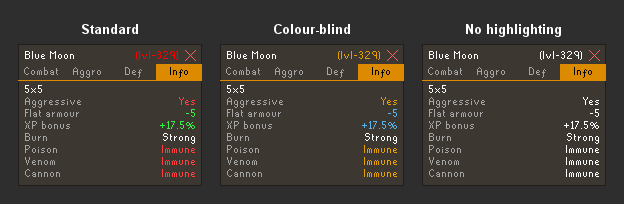
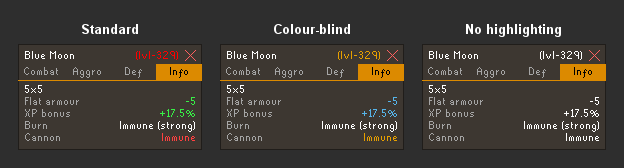
Add a dedicated Slayer box to the panel and overlay
Surface the full Bucket Slayer data instead of collapsing it to a
"Slayer monster: Yes" line. A dedicated box (panel) / block (overlay Info
tab) renders only for Slayer targets, showing required level, XP per kill,
assignment categories and the masters who assign it — all via the shared
MonsterStats view-model so both renderers stay in sync.

The required Slayer level is flagged red when the player's Slayer level is
below it (you cannot damage the monster yet); to support that, cache the
player's Slayer level each GameTick alongside combat/HP and thread it into
the view-model.

Closes #36.

Changed region(s): [[0.0304, 0.119, 0.9744, 0.8929], [0.4263, 0.119, 0.5785, 0.2083], [0.1218, 0.119, 0.2436, 0.2083]]

diff --git a/src/test/java/com/bettermonsterexamine/MonsterStatsTest.java b/src/test/java/com/bettermonsterexamine/MonsterStatsTest.java
@@ -24,7 +24,7 @@ public class MonsterStatsTest
 
 	private static MonsterStats stats(MonsterData m)
 	{
-		return new MonsterStats(m, HighlightMode.STANDARD, 99);
+		return new MonsterStats(m, HighlightMode.STANDARD, 99, 99);
 	}
 
 	@Test
@@ -55,7 +55,7 @@ public class MonsterStatsTest
 	{
 		MonsterData m = monster("{\"max_hit\":[\"999\"]}");
 
-		MonsterStats s = new MonsterStats(m, HighlightMode.OFF, 99);
+		MonsterStats s = new MonsterStats(m, HighlightMode.OFF, 99, 99);
 
 		assertFalse(s.maxHits().get(0).overHp());
 	}
@@ -112,6 +112,59 @@ public class MonsterStatsTest
 		assertEquals(ColourRole.DANGER, s.cannon().role());
 		assertNull(s.thrall());
 		assertEquals("Immune (weak)", s.burn());
+	}
+
+	@Test
+	public void slayerMonsterOnlyWhenCategoryPresent()
+	{
+		assertTrue(stats(monster("{\"slayer_category\":[\"Abyssal demons\"]}")).slayerMonster());
+		assertFalse(stats(monster("{\"slayer_level\":85}")).slayerMonster());
+		assertFalse(stats(monster("{}")).slayerMonster());
+	}
+
+	@Test
+	public void slayerRequirementFlagsDangerOnlyWhenPlayerBelow()
+	{
+		MonsterData m = monster("{\"slayer_category\":[\"Abyssal demons\"],\"slayer_level\":85}");
+
+		// Player at 84 can't damage it yet → danger; at 85 or with unknown level → neutral.
+		assertEquals("85", new MonsterStats(m, HighlightMode.STANDARD, 99, 84).slayerRequirement().value());
+		assertEquals(ColourRole.DANGER, new MonsterStats(m, HighlightMode.STANDARD, 99, 84).slayerRequirement().role());
+		assertEquals(ColourRole.NEUTRAL, new MonsterStats(m, HighlightMode.STANDARD, 99, 85).slayerRequirement().role());
+		assertEquals(ColourRole.NEUTRAL, new MonsterStats(m, HighlightMode.STANDARD, 99, -1).slayerRequirement().role());
+	}
+
+	@Test
+	public void slayerRequirementFloorsAtOneAndStaysNeutral()
+	{
+		// No listed requirement: the wiki shows level 1, which every player meets.
+		MonsterStats.StatField req = new MonsterStats(monster("{\"slayer_category\":[\"Zombies\"]}"),
+			HighlightMode.STANDARD, 99, 1).slayerRequirement();
+
+		assertEquals("1", req.value());
+		assertEquals(ColourRole.NEUTRAL, req.role());
+		assertNull(req.tooltip());
+	}
+
+	@Test
+	public void slayerXpFormatsAndOmitsZero()
+	{
+		assertEquals("150", stats(monster("{\"slayer_experience\":150.0}")).slayerXp());
+		assertEquals("18.5", stats(monster("{\"slayer_experience\":18.5}")).slayerXp());
+		assertNull(stats(monster("{\"slayer_experience\":0}")).slayerXp());
+		assertNull(stats(monster("{}")).slayerXp());
+	}
+
+	@Test
+	public void slayerCategoriesAndMastersJoinAndCapitalise()
+	{
+		MonsterData m = monster("{\"slayer_category\":[\"Blue dragons\",\"Bosses\"],"
+			+ "\"assigned_by\":[\"duradel\",\"nieve\"]}");
+
+		assertEquals("Blue dragons, Bosses", stats(m).slayerCategories());
+		assertEquals("Duradel, Nieve", stats(m).slayerMasters());
+		assertNull(stats(monster("{}")).slayerCategories());
+		assertNull(stats(monster("{}")).slayerMasters());
 	}
 
 	@Test

diff --git a/src/main/java/com/bettermonsterexamine/MonsterStats.java b/src/main/java/com/bettermonsterexamine/MonsterStats.java
@@ -75,12 +75,14 @@ final class MonsterStats
 	private final MonsterData m;
 	private final HighlightMode mode;
 	private final int playerHpLevel;
+	private final int playerSlayerLevel;
 
-	MonsterStats(MonsterData m, HighlightMode mode, int playerHpLevel)
+	MonsterStats(MonsterData m, HighlightMode mode, int playerHpLevel, int playerSlayerLevel)
 	{
 		this.m = m;
 		this.mode = mode;
 		this.playerHpLevel = playerHpLevel;
+		this.playerSlayerLevel = playerSlayerLevel;
 	}
 
 	// ---- Attributes / Info ---------------------------------------------------
@@ -96,6 +98,49 @@ final class MonsterStats
 	boolean slayerMonster()
 	{
 		return m.isSlayerMonster();
+	}
+
+	/**
+	 * Required Slayer level to damage the monster (the wiki shows {@code 1} when there is no real
+	 * requirement). Flagged {@link ColourRole#DANGER} when the player's Slayer level is known and
+	 * below it — you can't harm it yet. Only meaningful on a Slayer monster.
+	 */
+	StatField slayerRequirement()
+	{
+		int req = Math.max(1, m.getSlayerLevel());
+		boolean tooLow = playerSlayerLevel > 0 && playerSlayerLevel < req;
+		return new StatField(String.valueOf(req), tooLow ? ColourRole.DANGER : ColourRole.NEUTRAL,
+			req > 1 ? "Requires Slayer level " + req + " to damage." : null);
+	}
+
+	/** Slayer XP awarded per kill, without a trailing {@code .0}; null when absent. */
+	String slayerXp()
+	{
+		double xp = m.getSlayerExperience();
+		return xp > 0 ? StatFormat.number(xp) : null;
+	}
+
+	/** The Slayer assignment categories joined (e.g. {@code "Blue dragons, Bosses"}); null when none. */
+	String slayerCategories()
+	{
+		List<String> c = m.getSlayerCategory();
+		return c == null || c.isEmpty() ? null : String.join(", ", c);
+	}
+
+	/** The Slayer masters who assign it, capitalised and joined (e.g. {@code "Duradel, Nieve"}); null when none. */
+	String slayerMasters()
+	{
+		List<String> a = m.getAssignedBy();
+		if (a == null || a.isEmpty())
+		{
+			return null;
+		}
+		List<String> capped = new ArrayList<>(a.size());
+		for (String master : a)
+		{
+			capped.add(StatFormat.cap(master));
+		}
+		return String.join(", ", capped);
 	}
 
 	/** Flat-armour adjustment; null when zero. Negative (takes extra damage) is good, positive bad. */

diff --git a/src/main/java/com/bettermonsterexamine/MonsterCard.java b/src/main/java/com/bettermonsterexamine/MonsterCard.java
@@ -44,18 +44,20 @@ class MonsterCard extends JPanel
 	private final BetterMonsterExamineConfig config;
 	private final IntSupplier playerCombatLevel;
 	private final IntSupplier playerHpLevel;
+	private final IntSupplier playerSlayerLevel;
 	private final Predicate<MonsterData> isFavorite;
 	private final Consumer<MonsterData> onToggleFavorite;
 	private final Consumer<MonsterData> onSelectVariant;
 
 	MonsterCard(MonsterIcons icons, BetterMonsterExamineConfig config, IntSupplier playerCombatLevel,
-		IntSupplier playerHpLevel, Predicate<MonsterData> isFavorite, Consumer<MonsterData> onToggleFavorite,
-		Consumer<MonsterData> onSelectVariant)
+		IntSupplier playerHpLevel, IntSupplier playerSlayerLevel, Predicate<MonsterData> isFavorite,
+		Consumer<MonsterData> onToggleFavorite, Consumer<MonsterData> onSelectVariant)
 	{
 		this.icons = icons;
 		this.config = config;
 		this.playerCombatLevel = playerCombatLevel;
 		this.playerHpLevel = playerHpLevel;
+		this.playerSlayerLevel = playerSlayerLevel;
 		this.isFavorite = isFavorite;
 		this.onToggleFavorite = onToggleFavorite;
 		this.onSelectVariant = onSelectVariant;
@@ -67,7 +69,7 @@ class MonsterCard extends JPanel
 	void show(MonsterData m, List<MonsterData> variants)
 	{
 		removeAll();
-		MonsterStats stats = new MonsterStats(m, config.statHighlighting(), playerHpLevel.getAsInt());
+		MonsterStats stats = new MonsterStats(m, config.statHighlighting(), playerHpLevel.getAsInt(), playerSlayerLevel.getAsInt());
 		add(header(m, variants, stats));
 		add(Box.createRigidArea(new Dimension(0, 6)));
 		buildWiki(stats);
@@ -227,11 +229,6 @@ class MonsterCard extends JPanel
 			props.add(wrappedLabel(sizeAttr, Color.WHITE, false));
 			anyProp = true;
 		}
-		if (stats.slayerMonster())
-		{
-			props.add(kv("Slayer monster", "Yes", Color.WHITE));
-			anyProp = true;
-		}
 		MonsterStats.StatField flatArmour = stats.flatArmour();
 		if (flatArmour != null)
 		{
@@ -254,6 +251,34 @@ class MonsterCard extends JPanel
 		{
 			capHeight(props);
 			add(props);
+			add(Box.createRigidArea(new Dimension(0, 6)));
+		}
+
+		// SLAYER — only for Slayer targets: required level (red when above your Slayer level),
+		// XP per kill, assignment categories and the masters who assign it.
+		if (stats.slayerMonster())
+		{
+			JPanel slayer = block();
+			slayer.add(sectionHeader("Slayer"));
+			MonsterStats.StatField req = stats.slayerRequirement();
+			slayer.add(kv("Slayer level", req.value(), resolve(req.role()), req.tooltip()));
+			String slayerXp = stats.slayerXp();
+			if (slayerXp != null)
+			{
+				slayer.add(kv("Slayer XP", slayerXp, Color.WHITE));
+			}
+			String categories = stats.slayerCategories();
+			if (categories != null)
+			{
+				slayer.add(kvWrappedRight("Category", categories));
+			}
+			String masters = stats.slayerMasters();
+			if (masters != null)
+			{
+				slayer.add(kvWrappedRight("Assigned by", masters));
+			}
+			capHeight(slayer);
+			add(slayer);
 			add(Box.createRigidArea(new Dimension(0, 6)));
 		}
 

diff --git a/src/main/java/com/bettermonsterexamine/MonsterCardOverlay.java b/src/main/java/com/bettermonsterexamine/MonsterCardOverlay.java
@@ -41,6 +41,7 @@ class MonsterCardOverlay extends Overlay
 	private final MonsterIcons icons;
 	private final IntSupplier playerCombatLevel;
 	private final IntSupplier playerHpLevel;
+	private final IntSupplier playerSlayerLevel;
 
 	// monster is swapped in from the client thread and read on the render thread; activeTab is
 	// written from the mouse (AWT) thread. Volatile is enough — each is an independent
@@ -52,12 +53,13 @@ class MonsterCardOverlay extends Overlay
 	private volatile Rectangle[] tabBounds;
 	private volatile Rectangle closeBounds;
 
-	MonsterCardOverlay(BetterMonsterExamineConfig config, MonsterIcons icons, IntSupplier playerCombatLevel, IntSupplier playerHpLevel)
+	MonsterCardOverlay(BetterMonsterExamineConfig config, MonsterIcons icons, IntSupplier playerCombatLevel, IntSupplier playerHpLevel, IntSupplier playerSlayerLevel)
 	{
 		this.config = config;
 		this.icons = icons;
 		this.playerCombatLevel = playerCombatLevel;
 		this.playerHpLevel = playerHpLevel;
+		this.playerSlayerLevel = playerSlayerLevel;
 		setPosition(OverlayPosition.TOP_LEFT);
 		setLayer(OverlayLayer.ABOVE_WIDGETS);
 	}
@@ -227,7 +229,7 @@ class MonsterCardOverlay extends Overlay
 	private List<Row> rowsFor(int tab, MonsterData m)
 	{
 		HighlightMode mode = config.statHighlighting();
-		MonsterStats stats = new MonsterStats(m, mode, playerHpLevel.getAsInt());
+		MonsterStats stats = new MonsterStats(m, mode, playerHpLevel.getAsInt(), playerSlayerLevel.getAsInt());
 		List<Row> rows = new ArrayList<>();
 
 		switch (tab)
@@ -354,7 +356,23 @@ class MonsterCardOverlay extends Overlay
 		}
 		if (stats.slayerMonster())
 		{
-			rows.add(Row.kv("Slayer", "Yes", white));
+			MonsterStats.StatField req = stats.slayerRequirement();
+			rows.add(Row.kv("Slayer level", req.value(), StatColors.resolve(req.role(), mode)));
+			String slayerXp = stats.slayerXp();
+			if (slayerXp != null)
+			{
+				rows.add(Row.kv("Slayer XP", slayerXp, white));
+			}
+			String categories = stats.slayerCategories();
+			if (categories != null)
+			{
+				rows.add(Row.kvWrap("Category", categories, white));
+			}
+			String masters = stats.slayerMasters();
+			if (masters != null)
+			{
+				rows.add(Row.kvWrap("Assigned by", masters, white));
+			}
 		}
 		// Flat armour: a flat damage adjustment, 0 for most monsters — shown only when non-zero,
 		// green when negative (takes extra damage), red when positive (shrugs damage off).

diff --git a/src/main/java/com/bettermonsterexamine/BetterMonsterExaminePlugin.java b/src/main/java/com/bettermonsterexamine/BetterMonsterExaminePlugin.java
@@ -85,6 +85,7 @@ public class BetterMonsterExaminePlugin extends Plugin
 	// Cached on the client thread (GameTick) so the panel can read them safely off-thread (EDT).
 	private volatile int playerCombatLevel = -1;
 	private volatile int playerHpLevel = -1;
+	private volatile int playerSlayerLevel = -1;
 	private static final String STATS_OPTION = "Stats";
 
 	@Provides
@@ -98,7 +99,7 @@ public class BetterMonsterExaminePlugin extends Plugin
 	{
 		log.info("Better Monster Examine started");
 		titleIcon = ImageUtil.loadImageResource(getClass(), "/icon.png");
-		cardOverlay = new MonsterCardOverlay(config, monsterIcons, () -> playerCombatLevel, () -> playerHpLevel);
+		cardOverlay = new MonsterCardOverlay(config, monsterIcons, () -> playerCombatLevel, () -> playerHpLevel, () -> playerSlayerLevel);
 		overlayManager.add(cardOverlay);
 
 		// Route left-clicks on the overlay's tab strip to the overlay, consuming them so they
@@ -157,7 +158,7 @@ public class BetterMonsterExaminePlugin extends Plugin
 	{
 		log.debug("Adding side panel navigation button");
 		BufferedImage icon = titleIcon;
-		monsterStatsPanel = new BetterMonsterExaminePanel(monsterIcons, dataService, config, configManager, gson, () -> playerCombatLevel, () -> playerHpLevel, icon);
+		monsterStatsPanel = new BetterMonsterExaminePanel(monsterIcons, dataService, config, configManager, gson, () -> playerCombatLevel, () -> playerHpLevel, () -> playerSlayerLevel, icon);
 		// Mirror whatever the panel is showing into the overlay (when the overlay is a target).
 		monsterStatsPanel.setSelectionListener(this::showInOverlay);
 		navButton = NavigationButton.builder()
@@ -244,19 +245,21 @@ public class BetterMonsterExaminePlugin extends Plugin
 	@Subscribe
 	public void onGameTick(GameTick event)
 	{
-		// Keep the player's combat and hitpoints levels current so the panel can colour the
-		// monster level relative to combat and flag max hits above the player's HP; a couple
-		// of field reads per tick is negligible.
+		// Keep the player's combat, hitpoints and Slayer levels current so the panel can colour the
+		// monster level relative to combat, flag max hits above the player's HP, and flag Slayer
+		// requirements above the player's Slayer level; a few field reads per tick is negligible.
 		Player p = client.getLocalPlayer();
 		if (p != null)
 		{
 			playerCombatLevel = p.getCombatLevel();
 			playerHpLevel = client.getRealSkillLevel(Skill.HITPOINTS);
+			playerSlayerLevel = client.getRealSkillLevel(Skill.SLAYER);
 		}
 		else
 		{
 			playerCombatLevel = -1;
 			playerHpLevel = -1;
+			playerSlayerLevel = -1;
 		}
 	}
 

diff --git a/src/main/java/com/bettermonsterexamine/BetterMonsterExaminePanel.java b/src/main/java/com/bettermonsterexamine/BetterMonsterExaminePanel.java
@@ -72,7 +72,7 @@ public class BetterMonsterExaminePanel extends PluginPanel
 	 */
 	private Consumer<MonsterData> selectionListener;
 
-	public BetterMonsterExaminePanel(MonsterIcons icons, MonsterDataService data, BetterMonsterExamineConfig config, ConfigManager configManager, Gson gson, IntSupplier playerCombatLevel, IntSupplier playerHpLevel, BufferedImage titleIcon)
+	public BetterMonsterExaminePanel(MonsterIcons icons, MonsterDataService data, BetterMonsterExamineConfig config, ConfigManager configManager, Gson gson, IntSupplier playerCombatLevel, IntSupplier playerHpLevel, IntSupplier playerSlayerLevel, BufferedImage titleIcon)
 	{
 		super(false);
 		this.data = data;
@@ -80,7 +80,7 @@ public class BetterMonsterExaminePanel extends PluginPanel
 		this.configManager = configManager;
 		this.gson = gson;
 		this.history = LookupHistory.fromJson(gson, configManager.getConfiguration(CONFIG_GROUP, HISTORY_KEY));
-		this.card = new MonsterCard(icons, config, playerCombatLevel, playerHpLevel,
+		this.card = new MonsterCard(icons, config, playerCombatLevel, playerHpLevel, playerSlayerLevel,
 			m -> history.isFavorite(m.getName(), m.getVersion()),
 			this::toggleFavorite,
 			this::selectVariant);

diff --git a/src/test/java/com/bettermonsterexamine/OverlayPreview.java b/src/test/java/com/bettermonsterexamine/OverlayPreview.java
@@ -82,8 +82,8 @@ public class OverlayPreview
 	private static BufferedImage renderOverlay(BetterMonsterExamineConfig cfg, MonsterIcons icons,
 		MonsterData monster, int tab) throws Exception
 	{
-		// Maxed player (126 combat, 99 hp) so level colouring and the over-HP max-hit cue render.
-		MonsterCardOverlay overlay = new MonsterCardOverlay(cfg, icons, () -> 126, () -> 99);
+		// Maxed player (126 combat, 99 hp, 99 Slayer) so level colouring and the over-HP max-hit cue render.
+		MonsterCardOverlay overlay = new MonsterCardOverlay(cfg, icons, () -> 126, () -> 99, () -> 99);
 		overlay.setMonster(monster);
 		overlay.setActiveTab(tab);
 